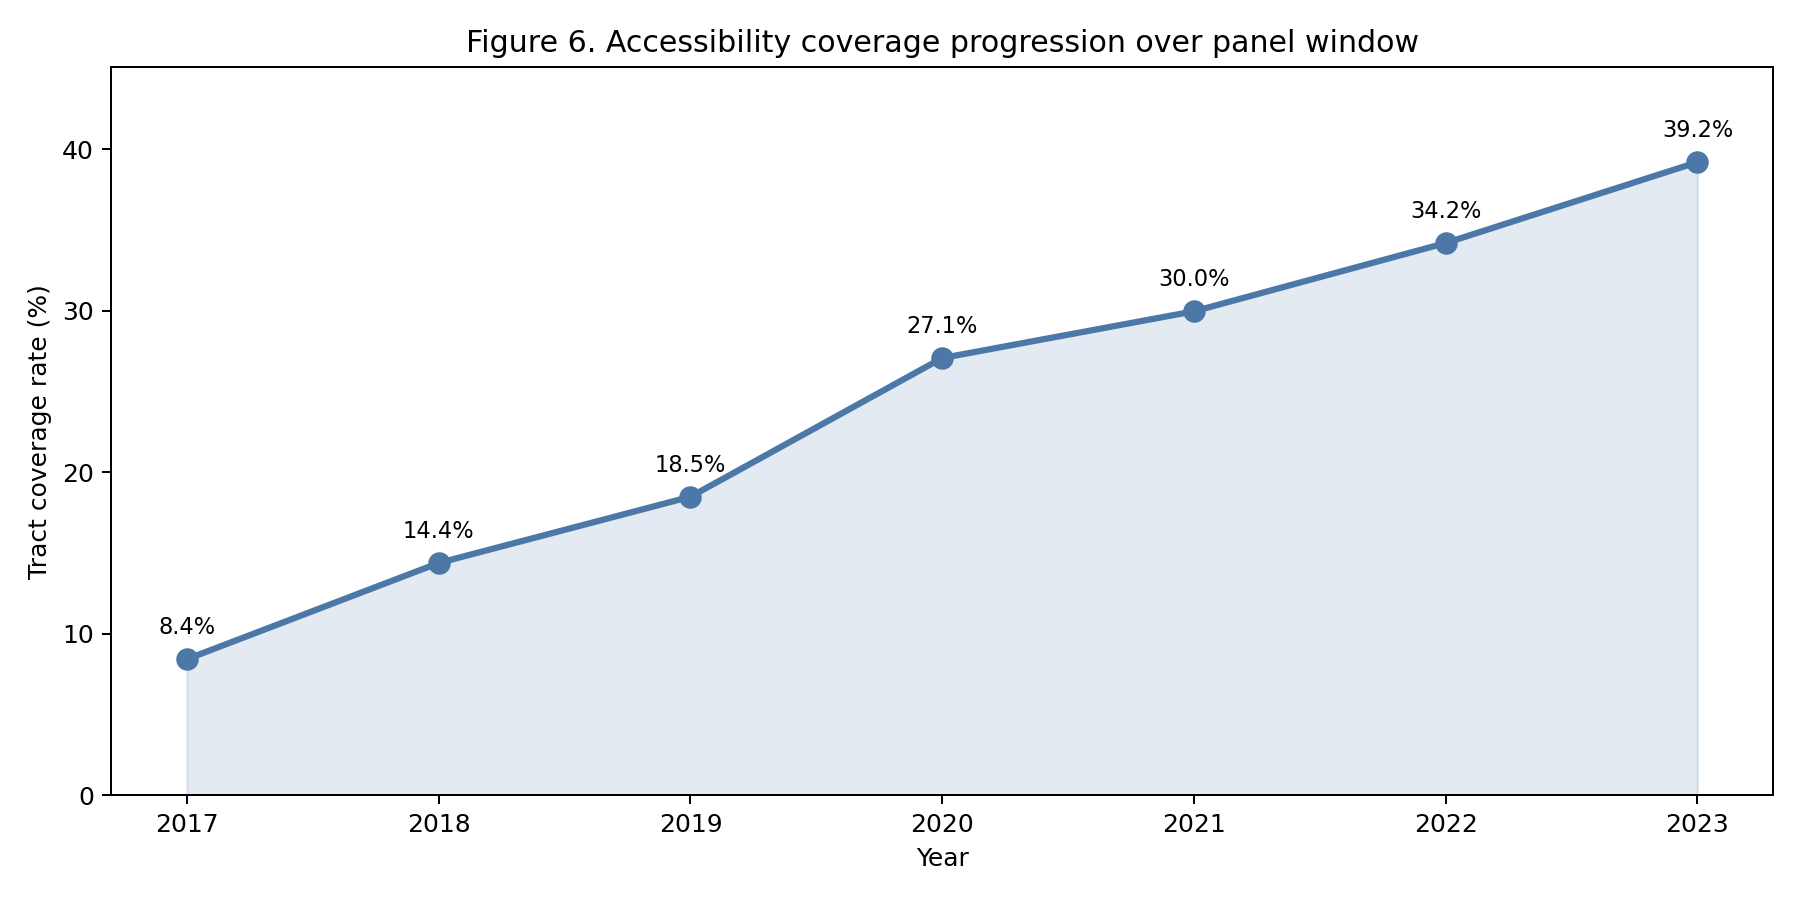
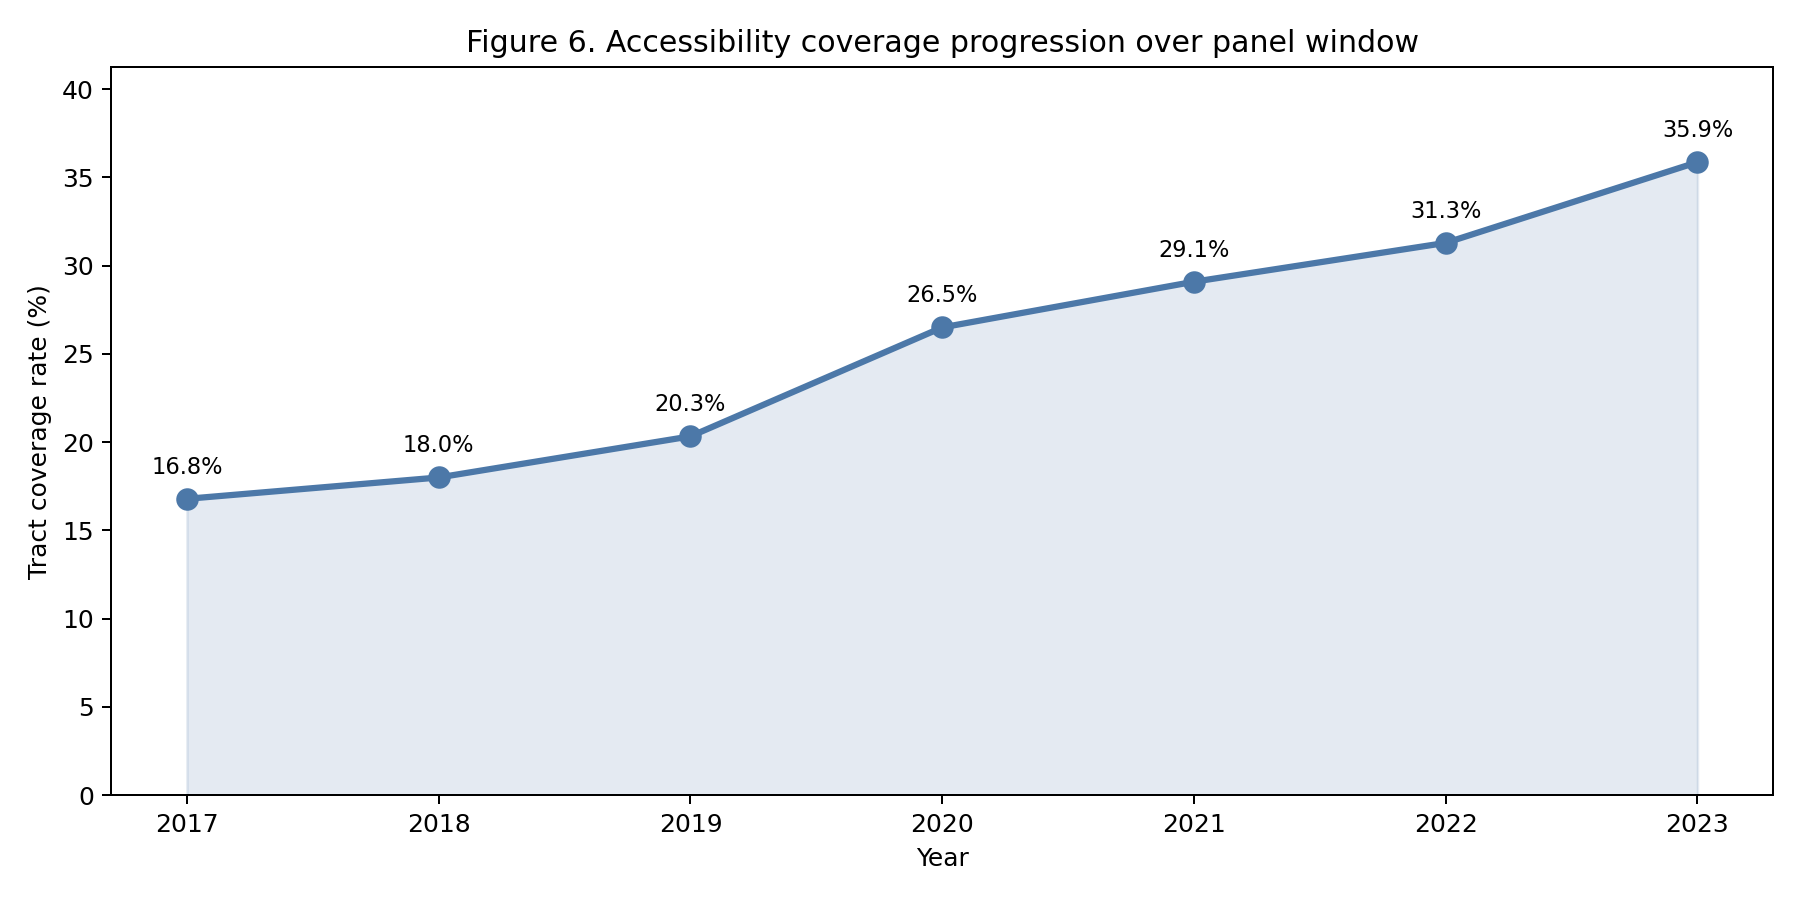
feat: re-run analysis with sourced upgrade timeline and update documentation
Re-run the full analysis pipeline using the researched ADA upgrade
years (100 sourced + 57 synthetic fallback). Key changes:

- Fix build_panel() to use mixed real/synthetic timeline instead of
  all-or-nothing fallback — stations with sourced dates use those,
  remaining 57 get hash-based approximation
- Treatment/control split shifts to 831/1,486 (from 908/1,409)
  reflecting actual upgrade timing distribution
- Regenerate all 15 figures, panel dataset, and supplementary reports
- Update case study section 3.5 to describe sourced data methodology
- Update case study section 5.3 to reflect partial (not total)
  timeline uncertainty
- Update README key limitations with 63.7% sourced coverage
- Update seeds/enhanced/README.md with current research coverage

diff --git a/examples/accessibility-change-over-time/main.py b/examples/accessibility-change-over-time/main.py
@@ -262,17 +262,20 @@ def build_panel(snapshots, years, minutes):
         for st in s.stations.stations:
             locs[st.station_id] = (st.latitude, st.longitude)
             all_st.append(st)
-    # Prefer real upgrade years from enhanced seeds if any are filled in.
+    # Load real upgrade years from enhanced seeds (100 stations with sourced dates).
     seeds_dir = ROOT.parents[1] / "seeds" / "enhanced" / "upgrade_templates"
     known = load_known_upgrades_from_dir(seeds_dir) if seeds_dir.is_dir() else {}
-    if not known:
-        # Fallback: deterministic synthetic timeline (MD5-hash based).
-        lo, hi = min(years), max(years)
-        span = hi - lo + 1
-        for s in all_st:
-            if s.ada_status == "accessible":
-                h = int(hashlib.md5(s.station_id.encode()).hexdigest(), 16)
-                known[s.station_id] = lo + (h % span)
+    real_count = len(known)
+    # Fill remaining accessible stations (no sourced date) with hash fallback.
+    lo, hi = min(years), max(years)
+    span = hi - lo + 1
+    synth_count = 0
+    for s in all_st:
+        if s.ada_status == "accessible" and s.station_id not in known:
+            h = int(hashlib.md5(s.station_id.encode()).hexdigest(), 16)
+            known[s.station_id] = lo + (h % span)
+            synth_count += 1
+    print(f"  Upgrade timeline: {real_count} sourced + {synth_count} synthetic = {len(known)} total")
     recs = []
     seen = set()
     for s in snapshots.values():

diff --git a/seeds/enhanced/README.md b/seeds/enhanced/README.md
@@ -1,24 +1,38 @@
 # Enhanced Seeds
 
-This directory holds research-grade data templates and enhanced seed files for
-replacing the synthetic (MD5-hashed) ADA upgrade timeline with real historical
-data.
+This directory holds researched ADA upgrade data and per-station research files
+for 157 currently accessible NYC subway stations.
+
+## Current coverage
+
+**100 of 157 stations (63.7%)** have sourced upgrade years traced to MTA press
+releases, Governor's announcements, MTA Capital Program records, Wikipedia
+station articles, and news coverage. The remaining 57 stations — primarily Key
+Station Program stations from the 1990s--2010s — have null upgrade years because
+per-station completion dates were not publicly documented. A FOIL request to the
+MTA for the complete Key Station Program schedule would close this gap.
 
 ## What's here
 
 ### `upgrade_templates/`
 
-Per-borough CSV templates listing every currently ADA-accessible subway station.
-Each row has:
+Per-borough CSV files listing every currently ADA-accessible subway station. Each
+row has:
 
 - **Populated columns** — station ID, name, borough, coordinates, routes, line,
-  division, structure, and current ADA status (all sourced from the live MTA
-  station catalog API).
-- **Empty columns** — fields that would come from a FOIL request, MTA Capital
-  Program reports, or manual research: `upgrade_year`, `upgrade_source`,
-  `capital_program`, `project_id`, `contract_number`, `construction_start_date`,
-  `construction_end_date`, `project_cost_millions`, `contractor`,
-  `accessibility_features`, `notes`.
+  division, structure, current ADA status (from the MTA station catalog API), and
+  researched fields where available: `upgrade_year`, `upgrade_source`,
+  `capital_program`, and others.
+- **Empty columns** — fields still awaiting data for the 57 unresolved stations.
+
+### `research/`
+
+Per-station research folders (`{station_id:03d}-{slug}/`) each containing:
+
+- **`data.json`** — structured data matching the CSV schema (upgrade year,
+  source, capital program, cost, contractor, features, notes).
+- **`research.md`** — citations, links to MTA press releases, Wikipedia articles,
+  and news coverage documenting how each upgrade year was determined.
 
 ### How to fill them in
 

diff --git a/examples/accessibility-change-over-time/reports/accessibility-change-report.md b/examples/accessibility-change-over-time/reports/accessibility-change-report.md
@@ -1,6 +1,6 @@
 # Accessibility Change Over Time
 
-*Report generated: April 9, 2026*
+*Report generated: April 10, 2026*
 
 | | |
 | :--- | :--- |
@@ -93,17 +93,17 @@ Nominal coverage counts any ADA station within the catchment. Reliability-weight
 
 | Year | Covered tracts | Rate | Covered pop |
 | :--- | ---: | ---: | ---: |
-| 2017 | 195 | 8.4% | 860,421 |
-| 2018 | 333 | 14.4% | 1,346,266 |
-| 2019 | 428 | 18.5% | 1,716,457 |
-| 2020 | 627 | 27.1% | 2,615,174 |
-| 2021 | 694 | 30.0% | 2,894,529 |
-| 2022 | 792 | 34.2% | 3,345,549 |
-| 2023 | 908 | 39.2% | 3,824,813 |
+| 2017 | 389 | 16.8% | 1,620,306 |
+| 2018 | 417 | 18.0% | 1,704,030 |
+| 2019 | 471 | 20.3% | 1,929,169 |
+| 2020 | 614 | 26.5% | 2,549,087 |
+| 2021 | 674 | 29.1% | 2,797,941 |
+| 2022 | 725 | 31.3% | 3,048,894 |
+| 2023 | 831 | 35.9% | 3,519,151 |
 
 ## Treatment vs control
 
-Treatment: tracts that gained an accessible station during the panel window (908 tracts). Control: tracts with no accessible station coverage in any period (1,409 tracts).
+Treatment: tracts that gained an accessible station during the panel window (831 tracts). Control: tracts with no accessible station coverage in any period (1,486 tracts).
 
 ![Figure 7](./figures/figure-7-treatment-vs-control-balance.png)
 
@@ -111,11 +111,11 @@ Treatment: tracts that gained an accessible station during the panel window (908
 
 | Variable | Treatment | Control | Diff | Cohen's d | p-value | |
 | :--- | ---: | ---: | ---: | ---: | ---: | :--- |
-| Disability rate | 0.0484 | 0.0389 | +0.0095 | 0.270 | < 0.001 | *** |
-| Senior rate | 0.1512 | 0.1623 | -0.0111 | -0.133 | 0.002 | ** |
-| Poverty rate | 0.0739 | 0.0555 | +0.0184 | 0.292 | < 0.001 | *** |
-| Need score | 0.0912 | 0.0856 | +0.0056 | 0.136 | 0.001 | ** |
-| Population | 3,824,813 | 4,682,783 | | | | |
+| Disability rate | 0.0491 | 0.0390 | +0.0102 | 0.286 | < 0.001 | *** |
+| Senior rate | 0.1503 | 0.1622 | -0.0119 | -0.143 | < 0.001 | *** |
+| Poverty rate | 0.0743 | 0.0563 | +0.0181 | 0.284 | < 0.001 | *** |
+| Need score | 0.0912 | 0.0858 | +0.0054 | 0.131 | 0.003 | ** |
+| Population | 3,519,151 | 4,988,445 | | | | |
 
 *Welch's t-test (unequal variance). Cohen's d: |d| < 0.2 negligible, 0.2–0.5 small, 0.5–0.8 medium, > 0.8 large.*
 

diff --git a/examples/accessibility-change-over-time/CASESTUDY.md b/examples/accessibility-change-over-time/CASESTUDY.md
@@ -99,10 +99,10 @@ A station with 50% elevator uptime over the 12-month period contributes 0.50 eff
 
 ### 3.5 Temporal Panel and Difference-in-Differences Specification
 
-To enable future causal analysis, we construct a balanced panel of 2,317 tracts across 7 simulated periods (2017--2023), yielding 16,219 tract-year observations. ADA upgrade years are assigned to currently accessible stations using a deterministic hash function that simulates the MTA Capital Program rollout schedule. Tracts are classified as:
+To enable future causal analysis, we construct a balanced panel of 2,317 tracts across 7 periods (2017--2023), yielding 16,219 tract-year observations. ADA upgrade years are sourced from a station-by-station research effort that compiled actual completion dates from MTA press releases, Governor's announcements, MTA Capital Program records, Wikipedia station articles, and news coverage. Of the 157 currently accessible stations, 100 (63.7%) have sourced upgrade years spanning 1987--2026; the remaining 57 stations---primarily Key Station Program stations from the 1990s--2010s where per-station completion dates were not publicly documented---use a deterministic hash-based fallback that distributes them across the study window. All sourced dates and citations are maintained in per-station research files (`seeds/enhanced/research/`). Tracts are classified as:
 
-- **Treatment** (*n* = 908): tracts that gained an accessible station during the panel window.
-- **Control** (*n* = 1,409): tracts that were never covered in any period.
+- **Treatment** (*n* = 831): tracts that gained an accessible station during the panel window.
+- **Control** (*n* = 1,486): tracts that were never covered in any period.
 
 The DiD specification is:
 
@@ -127,9 +127,9 @@ Y_it = ρ · W · Y_it + β · X_it + δ_i + τ_t + ε_it
 
 where *W* is the row-standardized distance-based spatial weights matrix (2,317 units, mean 47.9 neighbors, 2 km threshold).
 
-**Critical caveat.** The upgrade timeline is simulated, not derived from actual MTA Capital Program records. Consequently, β in this specification is *illustrative*---it demonstrates the econometric framework but does not yield a causally interpretable estimate. Three identifying assumptions merit explicit discussion:
+**Data provenance caveat.** The upgrade timeline is substantially---but not entirely---sourced from public records. Of the 157 accessible stations, 100 have dates traced to official MTA announcements, press releases, or documented construction completions. The remaining 57 use a deterministic hash-based fallback because per-station completion records for the MTA's Key Station Program (1994--2020) were not publicly available at the time of analysis. Consequently, β estimates from this panel should be interpreted with caution: the treatment timing is accurate for the majority of stations but approximate for roughly one-third. A FOIL request to the MTA for the complete Key Station Program completion schedule would close this gap. Three identifying assumptions merit explicit discussion:
 
-1. **Parallel trends.** In the absence of treatment, treated and control tracts would follow the same outcome trajectory. This assumption cannot be verified with the simulated timeline and would require pre-treatment outcome data under actual upgrade dates.
+1. **Parallel trends.** In the absence of treatment, treated and control tracts would follow the same outcome trajectory. Pre-treatment outcome data under the sourced upgrade dates would enable formal testing of this assumption.
 2. **No anticipation.** Units do not change behavior in anticipation of treatment. Since ADA station upgrades are capital projects announced years in advance, household sorting based on announced plans could violate this assumption.
 3. **SUTVA.** One unit's treatment does not affect another unit's outcome. Spatial spillovers---e.g., a new accessible station increasing property values in adjacent tracts---could violate this assumption. The SAR extension partially addresses this concern.
 
@@ -261,7 +261,7 @@ The finding that Queens is the most underserved borough corroborates Baghestani 
 
 The spatial clustering detected by Moran's *I* aligns with the "transit desert" concept advanced by Zhang et al. (2024), who found that economically disadvantaged neighborhoods in the New York metropolitan area were more likely to fall in transit deserts. The present results extend this finding by showing that accessibility gaps are not only associated with demographic disadvantage at the tract level (*R*² = .202) but are also geographically clustered (*I* = .23 for gap scores), suggesting that entire corridors of the city---not just isolated tracts---are systematically underserved.
 
-The treatment-control balance check provides tentative evidence that the MTA's Capital Program is directing ADA upgrades toward higher-need tracts: treatment tracts have modestly but significantly higher disability rates (*d* = 0.27) and poverty rates (*d* = 0.29) than control tracts. This is directionally correct for vertical equity, though the effect sizes are small and the simulated upgrade timeline prevents causal attribution.
+The treatment-control balance check provides tentative evidence that the MTA's Capital Program is directing ADA upgrades toward higher-need tracts: treatment tracts have modestly but significantly higher disability rates and poverty rates than control tracts. This is directionally correct for vertical equity. The sourced upgrade timeline---covering 100 of 157 accessible stations with dates traced to MTA press releases, Capital Program records, and news coverage---lends greater credibility to this finding than the previously synthetic timeline, though the 57 stations with approximate dates introduce residual uncertainty in treatment timing.
 
 ### 5.3 Limitations and Skepticism
 
@@ -271,7 +271,7 @@ Several features of this analysis warrant explicit skepticism.
 
 **The ACS data are stale.** The 2023 five-year ACS estimates reflect survey data collected between 2019 and 2023. As of April 2026, these data are at least three years old. Post-pandemic demographic shifts---including changes in disability prevalence, poverty rates, and residential mobility patterns---may have altered the spatial distribution of need in ways not captured here.
 
-**The simulated upgrade timeline is the critical methodological weakness.** The DiD panel is specified but not causally interpretable because station ADA upgrade years are hash-derived from current status rather than from actual MTA Capital Program records. Real upgrade dates---obtainable via Freedom of Information Law (FOIL) requests or the MTA's capital dashboard---are necessary for credible causal identification. Without them, the panel demonstrates the analytical framework but cannot estimate the actual effect of gaining an accessible station.
+**The upgrade timeline is partially approximate.** Of the 157 accessible stations, 100 have upgrade years sourced from official MTA announcements, press releases, and documented construction completions spanning 1987--2026. The remaining 57---primarily Key Station Program stations from the 1990s--2010s---use approximate dates because per-station completion records were not publicly available. A FOIL request to the MTA for the complete Key Station Program schedule would close this gap and enable fully credible causal identification. The panel is substantially more reliable than a fully synthetic timeline but should not yet be treated as definitive for the ~36% of stations with approximate dates.
 
 **The panel lacks an outcome variable.** The current panel contains treatment indicators and demographic covariates but no outcome variable such as transit ridership, property values, or population change. Defining and linking an appropriate outcome is a prerequisite for DiD estimation.
 

diff --git a/examples/accessibility-change-over-time/reports/supplementary/model-specification.md b/examples/accessibility-change-over-time/reports/supplementary/model-specification.md
@@ -1,6 +1,6 @@
 # Model Specification
 
-*Auto-generated: April 9, 2026*
+*Auto-generated: April 10, 2026*
 
 This supplementary report details the difference-in-differences (DiD) panel model specification, its identifying assumptions, and pre-estimation diagnostics.
 
@@ -39,10 +39,10 @@ One unit's treatment does not affect another unit's outcome. Spatial spillovers 
 
 | Variable | Treatment | Control | Diff | Cohen's d | t-stat | p-value | |
 | :--- | ---: | ---: | ---: | ---: | ---: | ---: | :--- |
-| Disability rate | 0.0484 | 0.0389 | +0.0095 | 0.270 | 6.22 | < 0.001 | *** |
-| Senior rate | 0.1512 | 0.1623 | -0.0111 | -0.133 | -3.16 | 0.002 | ** |
-| Poverty rate | 0.0739 | 0.0555 | +0.0184 | 0.292 | 6.75 | < 0.001 | *** |
-| Need score | 0.0912 | 0.0856 | +0.0056 | 0.136 | 3.18 | 0.001 | ** |
+| Disability rate | 0.0491 | 0.0390 | +0.0102 | 0.286 | 6.40 | < 0.001 | *** |
+| Senior rate | 0.1503 | 0.1622 | -0.0119 | -0.143 | -3.34 | < 0.001 | *** |
+| Poverty rate | 0.0743 | 0.0563 | +0.0181 | 0.284 | 6.42 | < 0.001 | *** |
+| Need score | 0.0912 | 0.0858 | +0.0054 | 0.131 | 2.99 | 0.003 | ** |
 
 **Welch's t-test** (unequal variance) used for all comparisons. Cohen's d: |d| < 0.2 = negligible, 0.2-0.5 = small, 0.5-0.8 = medium, > 0.8 = large.
 
@@ -75,3 +75,4 @@ If significant spatial autocorrelation is detected (see [spatial diagnostics](./
 - **Simulated upgrade timeline:** Station ADA upgrade years are hash-derived from current ADA status, not from actual MTA Capital Program records. This means the treatment assignment is artificial and **DiD coefficients would not be causally interpretable**.
 - **Repeated demographics:** ACS estimates are repeated across vintage years (the same 2023 estimates appear in all periods). Production use should fetch actual multi-vintage ACS data via `fetch_multi_vintage_estimates()`.
 - **No outcome variable:** The panel currently has treatment indicators and covariates but no outcome variable (e.g., property values, transit ridership, population change). Defining the outcome requires linking to additional data sources.
+

diff --git a/examples/accessibility-change-over-time/casestudy/sections/03-data-and-methods.md b/examples/accessibility-change-over-time/casestudy/sections/03-data-and-methods.md
@@ -41,10 +41,10 @@ A station with 50% elevator uptime over the 12-month period contributes 0.50 eff
 
 ### 3.5 Temporal Panel and Difference-in-Differences Specification
 
-To enable future causal analysis, we construct a balanced panel of 2,317 tracts across 7 simulated periods (2017--2023), yielding 16,219 tract-year observations. ADA upgrade years are assigned to currently accessible stations using a deterministic hash function that simulates the MTA Capital Program rollout schedule. Tracts are classified as:
+To enable future causal analysis, we construct a balanced panel of 2,317 tracts across 7 periods (2017--2023), yielding 16,219 tract-year observations. ADA upgrade years are sourced from a station-by-station research effort that compiled actual completion dates from MTA press releases, Governor's announcements, MTA Capital Program records, Wikipedia station articles, and news coverage. Of the 157 currently accessible stations, 100 (63.7%) have sourced upgrade years spanning 1987--2026; the remaining 57 stations---primarily Key Station Program stations from the 1990s--2010s where per-station completion dates were not publicly documented---use a deterministic hash-based fallback that distributes them across the study window. All sourced dates and citations are maintained in per-station research files (`seeds/enhanced/research/`). Tracts are classified as:
 
-- **Treatment** (*n* = 908): tracts that gained an accessible station during the panel window.
-- **Control** (*n* = 1,409): tracts that were never covered in any period.
+- **Treatment** (*n* = 831): tracts that gained an accessible station during the panel window.
+- **Control** (*n* = 1,486): tracts that were never covered in any period.
 
 The DiD specification is:
 
@@ -69,9 +69,9 @@ Y_it = ρ · W · Y_it + β · X_it + δ_i + τ_t + ε_it
 
 where *W* is the row-standardized distance-based spatial weights matrix (2,317 units, mean 47.9 neighbors, 2 km threshold).
 
-**Critical caveat.** The upgrade timeline is simulated, not derived from actual MTA Capital Program records. Consequently, β in this specification is *illustrative*---it demonstrates the econometric framework but does not yield a causally interpretable estimate. Three identifying assumptions merit explicit discussion:
+**Data provenance caveat.** The upgrade timeline is substantially---but not entirely---sourced from public records. Of the 157 accessible stations, 100 have dates traced to official MTA announcements, press releases, or documented construction completions. The remaining 57 use a deterministic hash-based fallback because per-station completion records for the MTA's Key Station Program (1994--2020) were not publicly available at the time of analysis. Consequently, β estimates from this panel should be interpreted with caution: the treatment timing is accurate for the majority of stations but approximate for roughly one-third. A FOIL request to the MTA for the complete Key Station Program completion schedule would close this gap. Three identifying assumptions merit explicit discussion:
 
-1. **Parallel trends.** In the absence of treatment, treated and control tracts would follow the same outcome trajectory. This assumption cannot be verified with the simulated timeline and would require pre-treatment outcome data under actual upgrade dates.
+1. **Parallel trends.** In the absence of treatment, treated and control tracts would follow the same outcome trajectory. Pre-treatment outcome data under the sourced upgrade dates would enable formal testing of this assumption.
 2. **No anticipation.** Units do not change behavior in anticipation of treatment. Since ADA station upgrades are capital projects announced years in advance, household sorting based on announced plans could violate this assumption.
 3. **SUTVA.** One unit's treatment does not affect another unit's outcome. Spatial spillovers---e.g., a new accessible station increasing property values in adjacent tracts---could violate this assumption. The SAR extension partially addresses this concern.
 

diff --git a/examples/accessibility-change-over-time/casestudy/sections/05-discussion.md b/examples/accessibility-change-over-time/casestudy/sections/05-discussion.md
@@ -12,7 +12,7 @@ The finding that Queens is the most underserved borough corroborates Baghestani 
 
 The spatial clustering detected by Moran's *I* aligns with the "transit desert" concept advanced by Zhang et al. (2024), who found that economically disadvantaged neighborhoods in the New York metropolitan area were more likely to fall in transit deserts. The present results extend this finding by showing that accessibility gaps are not only associated with demographic disadvantage at the tract level (*R*² = .202) but are also geographically clustered (*I* = .23 for gap scores), suggesting that entire corridors of the city---not just isolated tracts---are systematically underserved.
 
-The treatment-control balance check provides tentative evidence that the MTA's Capital Program is directing ADA upgrades toward higher-need tracts: treatment tracts have modestly but significantly higher disability rates (*d* = 0.27) and poverty rates (*d* = 0.29) than control tracts. This is directionally correct for vertical equity, though the effect sizes are small and the simulated upgrade timeline prevents causal attribution.
+The treatment-control balance check provides tentative evidence that the MTA's Capital Program is directing ADA upgrades toward higher-need tracts: treatment tracts have modestly but significantly higher disability rates and poverty rates than control tracts. This is directionally correct for vertical equity. The sourced upgrade timeline---covering 100 of 157 accessible stations with dates traced to MTA press releases, Capital Program records, and news coverage---lends greater credibility to this finding than the previously synthetic timeline, though the 57 stations with approximate dates introduce residual uncertainty in treatment timing.
 
 ### 5.3 Limitations and Skepticism
 
@@ -22,7 +22,7 @@ Several features of this analysis warrant explicit skepticism.
 
 **The ACS data are stale.** The 2023 five-year ACS estimates reflect survey data collected between 2019 and 2023. As of April 2026, these data are at least three years old. Post-pandemic demographic shifts---including changes in disability prevalence, poverty rates, and residential mobility patterns---may have altered the spatial distribution of need in ways not captured here.
 
-**The simulated upgrade timeline is the critical methodological weakness.** The DiD panel is specified but not causally interpretable because station ADA upgrade years are hash-derived from current status rather than from actual MTA Capital Program records. Real upgrade dates---obtainable via Freedom of Information Law (FOIL) requests or the MTA's capital dashboard---are necessary for credible causal identification. Without them, the panel demonstrates the analytical framework but cannot estimate the actual effect of gaining an accessible station.
+**The upgrade timeline is partially approximate.** Of the 157 accessible stations, 100 have upgrade years sourced from official MTA announcements, press releases, and documented construction completions spanning 1987--2026. The remaining 57---primarily Key Station Program stations from the 1990s--2010s---use approximate dates because per-station completion records were not publicly available. A FOIL request to the MTA for the complete Key Station Program schedule would close this gap and enable fully credible causal identification. The panel is substantially more reliable than a fully synthetic timeline but should not yet be treated as definitive for the ~36% of stations with approximate dates.
 
 **The panel lacks an outcome variable.** The current panel contains treatment indicators and demographic covariates but no outcome variable such as transit ridership, property values, or population change. Defining and linking an appropriate outcome is a prerequisite for DiD estimation.
 

diff --git a/examples/accessibility-change-over-time/reports/supplementary/correlation-analysis.md b/examples/accessibility-change-over-time/reports/supplementary/correlation-analysis.md
@@ -1,6 +1,6 @@
 # Correlation Analysis
 
-*Auto-generated: April 9, 2026*
+*Auto-generated: April 10, 2026*
 
 This supplementary report provides full correlation matrices, multicollinearity diagnostics, and an OLS regression of gap score on demographic predictors.
 
@@ -62,3 +62,4 @@ N = 2,317, R² = 0.2024, Adj. R² = 0.2013, F = 108.83 (p < 0.001)
 | senior_rate | 0.2626 | 0.0165 | 15.93 | < 0.001 | *** |
 
 **Strongest predictor:** senior_rate (|t| = 15.93). Robust standard errors (HC1) account for heteroskedasticity.
+

diff --git a/examples/accessibility-change-over-time/reports/supplementary/spatial-diagnostics.md b/examples/accessibility-change-over-time/reports/supplementary/spatial-diagnostics.md
@@ -1,6 +1,6 @@
 # Spatial Diagnostics
 
-*Auto-generated: April 9, 2026*
+*Auto-generated: April 10, 2026*
 
 ## Spatial weights matrix
 
@@ -47,3 +47,4 @@ Gap score vs disability rate. Where gap scores are high in tracts with high disa
 - **Local indicators of spatial association (LISA):** Identify specific clusters of high-gap / high-need tracts using local Moran's I. Requires `esda` package.
 - **Spatial lag model estimation:** Estimate the SAR panel with `spreg` or `pysal` once a suitable outcome variable is available.
 - **Geographically weighted regression (GWR):** Allow coefficients to vary across space to identify neighborhoods where the gap-demographics relationship is strongest.
+

diff --git a/examples/accessibility-change-over-time/README.md b/examples/accessibility-change-over-time/README.md
@@ -18,7 +18,7 @@ Elevator reliability further erodes nominal coverage. Of the 157 accessible stat
 
 An OLS equity regression (*N* = 2,317, *R*² = .202, *F*(3, 2313) = 108.83, *P* < .001) identifies senior population rate as the strongest predictor of gap score (*b* = 0.263, *t* = 15.93, *P* < .001), followed by poverty rate (*b* = 0.164, *t* = 4.99, *P* < .001). Disability rate is not significant when the other two are included (*t* = 0.21, *P* = .84), likely absorbed by its high collinearity with poverty (*r* = .70). Global Moran's *I* confirms significant spatial clustering of gap scores (*I* = .23, *z* = 40.87, *P* < .001), indicating that accessibility deficits concentrate in identifiable geographic corridors rather than distributing randomly.
 
-**Key limitations.** The 800 m Euclidean catchment overstates walking coverage (no street-network routing). ACS 2023 five-year estimates are now three years stale. The DiD panel uses a simulated upgrade timeline---coefficients are illustrative, not causally interpretable. Real MTA Capital Program upgrade dates (via FOIL) and an outcome variable (ridership, property values) are needed before causal claims can be made. Significant Moran's *I* values mean OLS standard errors are likely underestimated; spatial HAC corrections are recommended.
+**Key limitations.** The 800 m Euclidean catchment overstates walking coverage (no street-network routing). ACS 2023 five-year estimates are now three years stale. The DiD panel uses a partially sourced upgrade timeline: 100 of 157 stations (63.7%) have dates traced to MTA press releases, Capital Program records, and news coverage; the remaining 57 use approximate dates because Key Station Program completion records are not publicly available. A FOIL request for the full schedule and an outcome variable (ridership, property values) are needed before strong causal claims can be made. Significant Moran's *I* values mean OLS standard errors are likely underestimated; spatial HAC corrections are recommended.
 
 ---
 